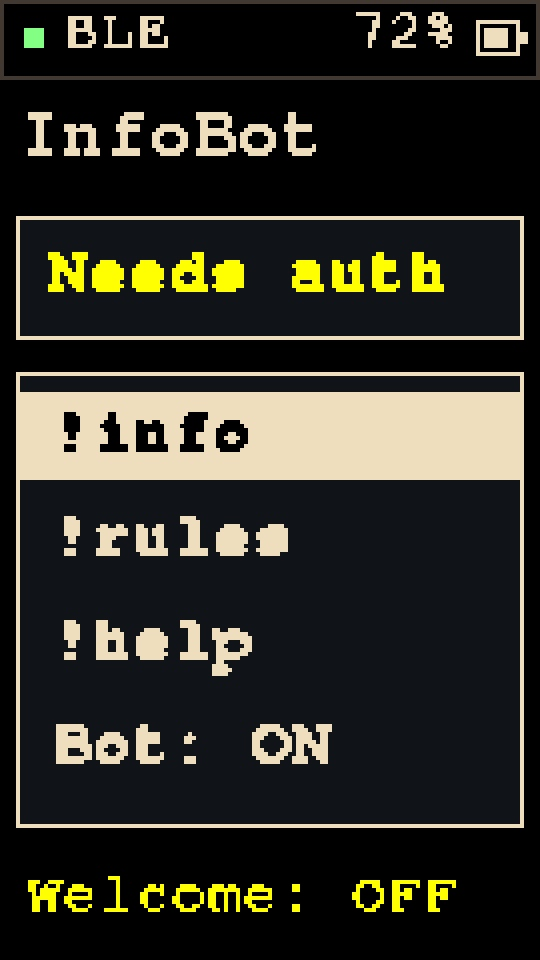
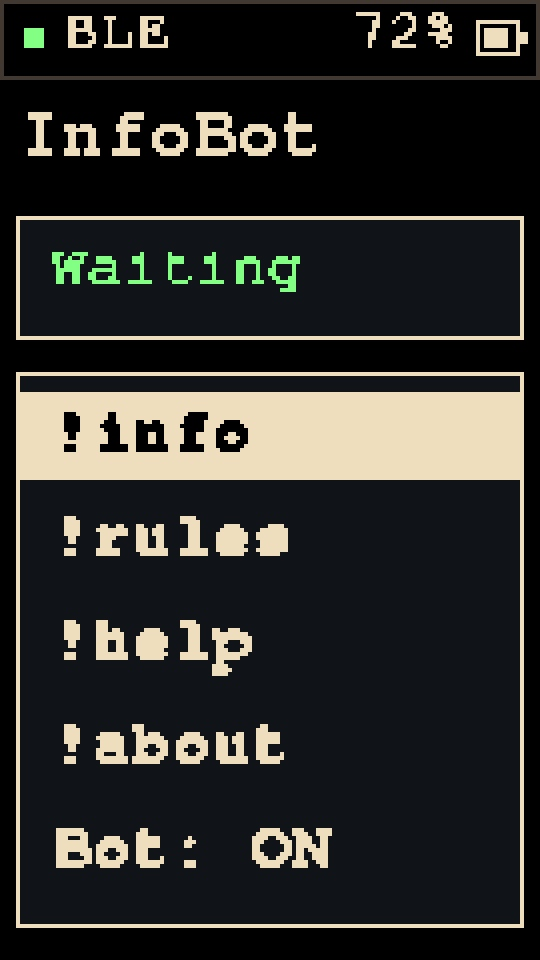
docs: explain InfoBot replies and refresh navigation previews
- Document public/private command conditions, about link and visible diagnostic states.
- Explain disabled automatic welcomes and the removed misleading footer.
- Update bluetooth naming, Home return and 32 scrolling replies across guides and previews.
- Record nineteen passing suites, verified upload and observed HAT/auth state.

diff --git a/docs/04-screens.md b/docs/04-screens.md
@@ -20,7 +20,7 @@ Target: **M5StickC Plus2, 135 × 240 pixels, portrait, en-US**. The editable [Fi
 | A short | Confirm/open, toggle local details, apply selected brightness |
 | B short | Up / previous observation |
 | C short (`M5.BtnPWR`) | Down / next observation |
-| B held ≥700ms | Back once; details → parent, Settings child → Settings, other pages → Home, Home → Settings |
+| B held ≥700ms | Back once; details → parent, Settings child → Settings, other pages → Home, Home → Start |
 | A held ≥700ms | Reserved; no confirmation on release |
 | C held ≥700ms | No down action on release; six-second hold retains power off |
 
@@ -48,11 +48,11 @@ Diagnostics shows `J:X,Y` when the HAT responds. It exposes the module's calibra
 | Start | Name, shared controls, A enters Home | Final logo remains a design asset task |
 | Home | Advertisement candidates, signed-peer/unread counts, envelope, real relay/transport state | Counts do not prove channel membership |
 | Nearby | Signed peers take priority when available; otherwise filtered candidates; A opens ID/address details | Signed-only and Noise-authenticated statuses are distinct; RSSI belongs only to observations |
-| Inbox | Separate Mesh (`#bluetooth`) and Direct DMs destinations with unread counts; A opens the selected history | No private groups or Nostr context |
+| Inbox | Separate #bluetooth and Direct DMs destinations with unread counts; A opens the selected history | No private groups or Nostr context |
 | Messages | Twelve-entry public/DM live history with BLE/DM labels; B/C cycle messages; A opens text-scroll mode; B/C scroll; A again replies; hold-B leaves detail, then returns to Inbox | RAM-only, 192 displayed bytes, truncation indicated; replies use a live authenticated session |
 | InfoBot | Command reference, authentication readiness, immediate Bot ON/OFF switch | Toggle is per boot; Welcome OFF |
 | Settings | Brightness, Battery, Diagnostics, Sound, JoyC HAT, About | Choices use compact rows |
-| Sound | Independent Interact, DM alert and Mesh msg square checkboxes | All default off |
+| Sound | Independent Interact, DM alert and Channel square checkboxes | All default off |
 | JoyC HAT | Click and LED pulse square checkboxes, connection/button state | Both default off |
 | Brightness | Five presets, explicit apply, persistent value, visible save failure | Physical 5% readability remains to be checked |
 | Battery | Real voltage and approximate percentage | No calibrated runtime or unsupported charging claim |
@@ -113,13 +113,13 @@ The [seventeen JPEG previews](screens/README.md) are generated from current draw
 
 ## Inbox and read state
 
-**Mesh** is a label for the apps' existing public local mesh (`#bluetooth`), not a new room created by the Stick. Multiple nearby participants share it. **Direct DMs** filters private messages addressed to the Stick. The shared header, including Start, shows an envelope whenever a retained incoming message is unread; Home and each inbox show counts. Viewing one message marks only that entry read. Incoming messages do not replace the message currently being read.
+**#bluetooth** is the apps' existing public local mesh, not a new room created by the Stick. Multiple nearby participants share it. **Direct DMs** filters private messages addressed to the Stick. The shared header, including Start, shows an envelope whenever a retained incoming message is unread; Home and each inbox show counts. Viewing one message marks only that entry read. Incoming messages do not replace the message currently being read.
 
 For DMs, a local read schedules the official encrypted Noise read receipt (`0x02` plus the original message ID). Unopened DMs produce only delivered receipts (`0x03`). Pending read receipts retry with bounded work when a suitable authenticated session is available. A queued receipt is not guaranteed radio delivery, and read state is not persisted across reboot.
 
 ## Sound and joystick preferences
 
-Settings → Sound uses square checkboxes for independent selections. Interact plays a short 30 ms beep on an interaction and two beeps on confirmation. DM alert and Mesh msg use different short tones for newly accepted incoming messages. Duplicate packets, announcements and outgoing replies do not trigger message alerts. Sound runs asynchronously while the UI and BLE loop continue.
+Settings → Sound uses square checkboxes for independent selections. Interact plays a short 30 ms beep on an interaction and two beeps on confirmation. DM alert and Channel use different short tones for newly accepted incoming messages. Duplicate packets, announcements and outgoing replies do not trigger message alerts. Sound runs asynchronously while the UI and BLE loop continue.
 
 Settings → JoyC HAT has Click and LED pulse. Click reads the active-low button only when enabled, debounces for 30 ms and requires a released button before the first confirmation. LED pulse produces a brief green fade after interaction. All five checkboxes default off and persist as one versioned NVS record, independently of brightness. Save failure is shown as Not saved.
 
@@ -129,10 +129,14 @@ The driver follows the local working Nemo reference's M5Unified transaction sequ
 
 ## Private composer — four additional screens
 
-Nearby A selects the currently displayed identified user. Inbox A opens the text reader; A again starts a private reply to that message's user. Reply offers Short msg/Keyboard; Short msgs provides eight ready-made English messages; Keyboard puts the draft above a compact QWERTY layout; Confirm shows the recipient and paged draft, then Send/Cancel. Cancel is initially selected.
+Nearby A selects the currently displayed identified user. Inbox A opens the text reader; A again starts a private reply to that message's user. Reply offers Short msg/Keyboard; Short msgs provides 32 ready-made English messages with a sliding five-row viewport and scrollbar; Keyboard puts the draft above a compact QWERTY layout; Confirm shows the recipient and paged draft, then Send/Cancel. Cancel is initially selected.
 
 B/C and JoyC up/down traverse the keyboard in reading order. A/right selects, left/hold-B backs out one step. ABC/123/abc switches case/numbers, SP inserts a space, DEL removes the last character, and OK opens confirmation. The confirmation text pages participate in the same focus cycle as Send and Cancel, allowing the full 192-character draft to be reviewed.
 
 The composer captures a peer ID, not a list position. Failed sends preserve the draft and show Not sent; successful enqueues show Queued and cannot be submitted twice. Delivered/Read require an authenticated receipt. See [behavior and acceptance checks](14-direct-message-composer.md).
 
 Owner acceptance on 2026-11-11: the installed sending flow worked well. This general confirmation does not individually close the platform, receipt-state or edge-case items in the composer checklist.
+
+## App navigation and InfoBot update — 2026-11-11
+
+The public inbox is named #bluetooth again, with Public chat as its subtitle. Home Back returns to Start. Sound labels the public-message alert Channel. InfoBot offers !info, !rules, !help, !about and Bot: ON/OFF; the top status shows command results or reasons to wait. The noninteractive Welcome: OFF footer is removed. See [InfoBot behavior](15-infobot.md) for public/private reply conditions.

diff --git a/README.md b/README.md
@@ -2,7 +2,7 @@
 
 Firmware **v0.2.0** · Default language: **English (en-US)**.
 
-A small BLE Bitchat participant for M5StickC Plus2. The firmware implements signed discovery and public chat, automatic identity-bound Noise sessions, bounded public-packet relay, and authenticated InfoBot commands. Other Bitchat users see the device as **Bitchat Stick** in the local `#bluetooth` context.
+A small BLE Bitchat participant for M5StickC Plus2. The firmware implements signed discovery and public chat, automatic identity-bound Noise sessions, bounded public-packet relay, and signed-public/private InfoBot commands. Other Bitchat users see the device as **Bitchat Stick** in the local `#bluetooth` context.
 
 Android 2.2.0 has verified the Stick's announcement and completed a real Noise handshake. The owner also confirmed network visibility, corrected JoyC navigation and successful use of the installed message-sending flow on 2026-11-11. The sending report did not specify a phone platform or individual receipt checks. Full iOS messaging, indirect two-phone relay, background behavior, and battery endurance still require the [device acceptance checklist](docs/13-device-checklist.md). Compilation and native tests alone do not establish interoperability.
 
@@ -30,14 +30,14 @@ Exit the monitor with `Ctrl+C` before uploading again. Deployment currently mean
 - **A:** confirm/open the selected item.
 - **B:** move up.
 - **C:** move down. C is the Plus2 power button, exposed as `M5.BtnPWR`.
-- **Hold B for 700 ms:** go back; from Home, open Settings.
+- **Hold B for 700 ms:** go back; from Home, return to Start.
 - **Hold C for 6 seconds:** retain the power-off behavior. A long C press never becomes a down action on release.
 
 The optional **M5Stack Mini JoyC HAT (U156)** also navigates the menus: left goes back, right confirms, and up/down move and repeat every 1.5 seconds when held past the activation threshold. Left/right require recentering before another action. The physical buttons remain available. Settings → JoyC HAT adds optional Click confirmation and LED pulse, both disabled by default. See the [JoyC controls](docs/04-screens.md#optional-mini-joyc-hat) and [device checks](docs/13-device-checklist.md#1a-mini-joyc-hat).
 
 The splash screen shows the project name and controls, aligned to the current Figma design. Press A to enter Home. Navigation instructions are shown only on the splash screen, freeing space on the other screens. The first press after the screen turns off only wakes it.
 
-Settings → Sound offers independent checkboxes for interaction beeps, received DMs and Mesh messages. Choices persist across restart.
+Settings → Sound offers independent checkboxes for interaction beeps, received DMs and #bluetooth messages. Choices persist across restart.
 
 Settings offers 5%, 25%, 50%, 75%, and 100% brightness, with 50% as the default. About credits **Wander Lima** and includes a real QR code for [the project repository](https://github.com/wanderlima/bitchat-stick). A radio mark shows the applied brightness; the cream highlight shows the focused option.
 
@@ -47,12 +47,12 @@ The interface uses FreeMono Regular/Bold, warm cream `#EBDCBA` instead of pure w
 
 - Home, Nearby, Inbox, Messages, InfoBot, Settings, Brightness, Battery, About, and Diagnostics use real firmware state.
 - Nearby distinguishes service-advertisement candidates, signed peers, and Noise-authenticated peers. A signed name is not an out-of-band verified human identity.
-- Inbox separates **Mesh** (the shared public BLE `#bluetooth` context) and **Direct DMs** (private messages addressed to this Stick). It does not create a new channel. Messages reads signed public text and authenticated DMs, with explicit BLE/DM labels. It keeps twelve RAM-only entries, with message paging and text scrolling; at most 192 bytes are rendered per entry, with an explicit truncation mark.
+- Inbox separates **#bluetooth** (the shared public BLE `#bluetooth` context) and **Direct DMs** (private messages addressed to this Stick). It does not create a new channel. Messages reads signed public text and authenticated DMs, with explicit BLE/DM labels. It keeps twelve RAM-only entries, with message paging and text scrolling; at most 192 bytes are rendered per entry, with an explicit truncation mark.
 - Signed public announcements and text are verified, deduplicated, and eligible for TTL-limited forwarding without echoing the ingress link. Queue acceptance is not a delivery acknowledgement.
-- InfoBot supports `!info`, `!rules`, and `!help`, plus `!regras`/`!ajuda` aliases. Commands require an authenticated peer and recent signed public text. Per-peer/global limits prevent reply floods. The on-device `Bot: ON/OFF` switch applies immediately for the current boot.
+- InfoBot supports `!info`, `!rules`, `!help`, and `!about`, plus `!regras`/`!ajuda` aliases. Signed public commands receive public replies; authenticated DMs receive private replies. A three-second peer limit and one-second global limit prevent reply floods. The InfoBot screen shows its latest reply/block status. See [usage and troubleshooting](docs/15-infobot.md). The on-device `Bot: ON/OFF` switch applies immediately for the current boot.
 - Welcome messages remain OFF because discovery/reconnection does not reliably prove channel entry.
 - An envelope in the header indicates unread incoming messages. Home and each inbox show unread counts; opening a DM sends an encrypted read receipt. New arrivals preserve the current reading position. Unread state is RAM-only.
-- Nearby users and Inbox messages open a private composer: Short msg presets or a QWERTY keyboard, then Send/Cancel. Drafts are bounded to 192 ASCII characters. Sending requires an authenticated live session; Queued, Delivered and Read are distinct states. See the [composer and device checklist](docs/14-direct-message-composer.md).
+- Nearby users and Inbox messages open a private composer: 32 scrolling Short msg presets or a QWERTY keyboard, then Send/Cancel. Drafts are bounded to 192 ASCII characters. Sending requires an authenticated live session; Queued, Delivered and Read are distinct states. See the [composer and device checklist](docs/14-direct-message-composer.md).
 - Drawing uses a 135 × 240 offscreen framebuffer before updating the display, avoiding the visible erase/redraw cycle.
 
 Private media, private groups, Nostr, gossip/history synchronization, arbitrary routed Noise forwarding, OTA, persistent chat history remain future scope. See the [wire contract and security limits](docs/12-wire-contract.md) and [current implementation plan](docs/11-implementation-plan.md).
@@ -76,6 +76,7 @@ The official project distinguishes the offline BLE `#bluetooth` context from geo
 - [Wire contract and interoperability evidence](docs/12-wire-contract.md)
 - [Device acceptance checklist](docs/13-device-checklist.md)
 - [Private composer and validation checklist](docs/14-direct-message-composer.md)
+- [InfoBot commands and troubleshooting](docs/15-infobot.md)
 
 ## Hardware and evidence
 

diff --git a/docs/13-device-checklist.md b/docs/13-device-checklist.md
@@ -20,7 +20,7 @@ Updated: **2026-11-11**. Device name: **Bitchat Stick**. Supported context: publ
 - [ ] Boot from USB, then battery only: one splash, no repeated resets.
 - [ ] Remain on Home/Nearby for at least one minute: no visible black erase/redraw flashes; text and header remain stable.
 - [ ] A confirms/selects, B moves up, C moves down; hold-B backs out; hold-C for six seconds powers off without an extra down action.
-- [ ] Open all eleven screens; verify grouping, dividers, cream text and the green Nearby border.
+- [ ] Open all seventeen screens; verify grouping, dividers, cream text and the green Nearby border.
 - [ ] Wait 30 seconds: display turns off. First press only wakes it; selected screen/brightness remain intact.
 
 ## 1a. Mini JoyC HAT
@@ -36,7 +36,7 @@ Updated: **2026-11-11**. Device name: **Bitchat Stick**. Supported context: publ
 
 - [ ] Start with all Sound and JoyC checkboxes off. Confirm normal navigation with the HAT attached, then disconnected.
 - [ ] Sound → Interact plays one short beep on movement/back and two on confirmation.
-- [ ] Test DM alert and Mesh msg independently with fresh incoming messages. Duplicate transmissions and own replies stay quiet.
+- [ ] Test DM alert and Channel independently with fresh incoming messages. Duplicate transmissions and own replies stay quiet.
 - [ ] Confirm Click is off by default. A stuck button must not prevent axis or physical-button navigation while Click is off.
 - [ ] Enable Click, release it, then press again to confirm once. Holding it must not repeat. Test a press held while enabling.
 - [ ] Enable LED pulse and interact. Check a short green pulse and return to off. Disable it and verify pulses stop.
@@ -61,13 +61,13 @@ Updated: **2026-11-11**. Device name: **Bitchat Stick**. Supported context: publ
 
 Use your own test phones and synthetic content. Public BLE messages are visible to nearby participants.
 
-- [ ] In Inbox, verify **Mesh** and **Direct DMs** are separate. Mesh is the shared local public conversation, not a room created by the Stick.
-- [ ] From Android, send a unique public message such as `android-stick-001` in #bluetooth; it appears in Inbox → Mesh on the Stick.
+- [ ] In Inbox, verify **#bluetooth** and **Direct DMs** are separate. The public inbox is the shared local conversation, not a room created by the Stick.
+- [ ] From Android, send a unique public message such as `android-stick-001` in #bluetooth; it appears in Inbox → #bluetooth on the Stick.
 - [ ] Repeat from iPhone with `ios-stick-001`. Verify sender name and actual content.
 - [ ] B/C changes message; A enters text scrolling; B/C scrolls long text; hold-B leaves detail, then Messages.
 - [ ] Send long text, accents and emoji: no crash, unsupported display glyphs are substituted, and truncation is indicated when applicable.
-- [ ] With a **Noise auth** peer and Bot ON, send `!info`; receive one signed public reply from Bitchat Stick.
-- [ ] Wait at least 30 seconds between commands from the same peer; check `!rules`, `!help`, and aliases `!regras`, `!ajuda`.
+- [ ] With a signed public peer and Bot ON, send `!info`; receive one signed public reply from Bitchat Stick.
+- [ ] Wait at least three seconds between commands from the same peer; check `!rules`, `!help`, `!about`, and aliases `!regras`, `!ajuda`.
 - [ ] Send ordinary text, `!info extra`, and repeated commands: no unintended replies or reply flood.
 - [ ] In InfoBot select Bot ON/OFF with A. OFF suppresses replies immediately; ON restores them after cooldown. The switch returns to ON after reboot.
 - [ ] Reconnect/reopen apps: no welcome spam and no replay-triggered replies. Welcome remains OFF.
@@ -78,8 +78,8 @@ Use your own test phones and synthetic content. Public BLE messages are visible 
 - [ ] Open Inbox → Direct DMs: the message appears with a **DM** label and correct sender/content.
 - [ ] Before opening the DM on the Stick, Android should show delivered only. Opening it sends the encrypted read receipt; verify Android changes to read within a few seconds while connected.
 - [ ] Repeat from iPhone; test long text and reconnect. Earlier DMs sent before the update are not automatically recovered.
-- [ ] Send `!info` as a DM: it is displayed privately and never produces a public InfoBot reply.
-- [ ] A new incoming message shows the envelope on every screen, including Start, and increments unread counts. Reading one entry clears only that entry; opening Mesh must not clear unread DMs.
+- [ ] Send `!info` as a DM: it is displayed privately and receives a private InfoBot reply, never a public reply.
+- [ ] A new incoming message shows the envelope on every screen, including Start, and increments unread counts. Reading one entry clears only that entry; opening #bluetooth must not clear unread DMs.
 - [ ] While reading an older message, a new arrival preserves focus and remains unread.
 - [ ] Repeat the delivered → read transition on iPhone; test reconnect before opening the DM.
 
@@ -101,3 +101,5 @@ Use your own test phones and synthetic content. Public BLE messages are visible 
 ## Limits that are not failures of this version
 
 Private media/groups, geographic/Nostr channels, sync/history recovery and OTA are not implemented. Private-message sending with a QWERTY/canned-reply composer is implemented; validate it using [the composer checklist](14-direct-message-composer.md). History and peer pins are in RAM; local identity and brightness persist in unencrypted NVS. Outgoing public sending is currently exercised through InfoBot and public relay; private sending supports confirmed text DMs and protocol delivery/read receipts. Queue/notification acceptance is not end-to-end delivery confirmation; the sender app must actually receive the encrypted delivered/read receipt. Welcome automation intentionally stays disabled.
+
+See [InfoBot usage](15-infobot.md) for the changed public/private command gates, statuses and automatic-welcome explanation. Test Home → Back → Start and scroll through all 32 Short msgs, including Help/SOS, before confirming a send.

diff --git a/docs/03-features.md b/docs/03-features.md
@@ -20,21 +20,11 @@ Do not promise discovery of every channel or a complete participant list. Show o
 
 ## InfoBot — planned
 
-Enable only by local action after compatible reception and transmission have been demonstrated for the selected context. Use a clearly identified bot identity, such as `StickInfoBot`; do not impersonate a phone user.
+The device replies under its advertised Bitchat Stick identity. Bot defaults to ON for each boot and can be disabled locally. The installed bot behavior is described below; physical acceptance of newly added paths is recorded separately.
 
-| Command token | Proposed configurable response |
-|---|---|
-| `!info` | “About this context: [description]. Use !rules or !help.” |
-| `!rules` | “Respect others. Avoid spam. Do not share other people's personal data.” |
-| `!help` | “Commands: !info, !rules, !help. Automated replies from StickInfoBot.” |
+InfoBot implements `!info`, `!rules`, `!help`, `!about`, and aliases `!regras`/`!ajuda`. It accepts a complete command with surrounding whitespace and ASCII case differences. Public replies require a verified signed public packet; private commands require an authenticated Noise session and receive encrypted private replies. Arguments, URLs and shell text are never executed.
 
-English command tokens and reply templates are the new default. The originally requested `!regras` and `!ajuda` may be retained as optional compatibility aliases for `!rules` and `!help` when the bot is implemented. None of these are official Bitchat protocol commands.
-
-Accept only an exact complete command; the current implementation does not trim whitespace. Do not execute arguments, URLs, or shell text. Ignore synchronized history, duplicate relays, own messages, recognized automated replies, private messages, and unapproved contexts. Reply only in the validated input context. Keep counters rather than message content by default.
-
-Starting spam policy: one reply per sender/context per 30 seconds, no more than six replies globally per minute, one short message per response, and a proposed 160-byte UTF-8 ceiling without splitting code points. Validate that ceiling against the actual codec. Drop/count automated replies when queues fill; do not accumulate an unlimited backlog across reconnections. Prefer verified identities for limits. Without them, leave the bot disabled or require an explicit conservative global policy.
-
-Configuration will be local in a future phase. No command grants privileges or changes the rules. Informational rules are not network moderation.
+The peer cooldown is three seconds and the global interval is one second. Commands must be within two minutes of the local clock. Duplicate/history/self traffic must not cause repeated replies. Failed enqueue shows Queue busy and does not create an unbounded retry backlog. The on-device switch is ON by default after boot. See [InfoBot usage and troubleshooting](15-infobot.md).
 
 ## Conditional welcome messages
 
@@ -44,10 +34,10 @@ Require an authenticatable event carrying identity and context. Discovery, annou
 
 The preferred fallback is a user-requested `!info` response, not unsolicited messages to every nearby radio.
 
-## Future Pocket Messenger
+## Initial Pocket Messenger — implemented
 
-Paged reading, canned replies such as “Received” or “On my way,” context/recipient selection, and explicit confirmation before transmission. Keep the same controls: B up, C down, A select/confirm, hold B to return/cancel. Opening a message must not send anything. Free-text composition and DMs follow only after input usability, identity, sessions, and destination confirmation are validated.
+Nearby/Inbox entry, 32 short replies, a compact QWERTY editor, and explicit recipient/text confirmation are implemented. B/C navigate, A selects, and hold B returns/cancels; JoyC uses the same actions. Opening a message or choosing a phrase never transmits it. See [the composer](14-direct-message-composer.md).
 
 ## Current InfoBot control
 
-InfoBot accepts recent signed public `!info`, `!rules`, `!help`, `!regras`, and `!ajuda` only after Noise-authenticated peer state binds the signing key. Commands with arguments are ignored. Rate limits are 30 seconds per peer and 3 seconds globally; duplicates and self traffic do not cause replies. The InfoBot screen includes an immediate ON/OFF switch for the current boot. Welcomes remain disabled.
+The screen lists four commands and Bot: ON/OFF. Command rows explain usage; they do not transmit a request. The top status distinguishes Waiting, queued Public/DM replies, cooldown, disabled state, clock mismatch and queue failure. The former Welcome: OFF footer was not editable and has been removed; automatic welcomes remain disabled.

diff --git a/docs/15-infobot.md b/docs/15-infobot.md
@@ -1,0 +1,43 @@
+# InfoBot usage and troubleshooting
+
+InfoBot responds to commands received by **Bitchat Stick**, either in the shared public **#bluetooth** chat or in a direct message to the Stick. On the device, open Home → InfoBot and keep **Bot: ON**. Select Bot: ON/OFF with A or JoyC right to toggle it. The switch defaults to ON after restart.
+
+The command rows on that screen explain each command; selecting them does not send a command to another user. Type the command in a phone's Bitchat chat to request a reply.
+
+| Command | Reply |
+|---|---|
+| `!info` | Stick hardware and supported local features |
+| `!rules` / `!regras` | Public/private context and basic conduct |
+| `!help` / `!ajuda` | Commands and usage |
+| `!about` | Project description, Wander Lima credit and https://github.com/wanderlima/bitchat-stick |
+
+Commands accept ASCII case differences and surrounding whitespace, but must be the whole message. `!HELP` works; `please !help` is ordinary chat.
+
+## Reply conditions
+
+- A public command must be a valid signed packet from an identified Bitchat peer. A private Noise session is not required for public replies.
+- A DM must be decrypted through an authenticated, identity-bound Noise session. Its bot reply stays encrypted and addressed to the same peer. A private command never generates a public reply.
+- The command timestamp must be within two minutes of the Stick's clock, in addition to normal packet validation. Old history is not treated as a live request.
+- Allow three seconds between commands from the same peer. A shared one-second interval also limits replies across peers. Public and private commands share the peer limit.
+- Duplicate packets do not trigger another bot reply. Queue acceptance is not proof that the phone received it.
+
+The status at the top of InfoBot shows **Waiting**, **Public reply**, **DM reply**, **Wait 3s**, **Bot OFF**, **Check clock**, or **Queue busy**. Public reply/DM reply means a reply was queued. If the original packet is rejected before command processing, check that ordinary chat arrives and that the peer/connection is present; a command status is not available for an unreadable packet. USB telemetry includes `botState` without logging message text.
+
+## Why commands did not reply before this change
+
+The earlier implementation intentionally ignored DM commands and required private authenticated peer state even for signed public commands. It also imposed a 30-second peer cooldown and a narrower timestamp window. Native regression reproduced the signed-public/no-session failure before the correction. The current implementation accepts signed public commands without that extra session requirement, supports private replies, and exposes the remaining command conditions on screen.
+
+## Automatic welcomes
+
+The former **Welcome: OFF** footer described a disabled automatic greeting feature; it was not an editable setting. BLE discovery/reconnection does not reliably prove that someone joined the chat. Automatic welcomes therefore remain disabled, and the misleading footer has been removed. Bot: ON controls command replies only.
+
+## Device checks
+
+- [ ] Connect Bitchat, verify ordinary incoming messages, and keep Bot: ON.
+- [ ] In #bluetooth, send `!help`; allow three seconds, then send `!about`. Check the public reply and project link.
+- [ ] DM the Stick with `!info`, then `!about` after three seconds. Verify replies appear only in that DM.
+- [ ] Send repeated commands quickly: Wait 3s appears and no flood of replies occurs.
+- [ ] Switch Bot OFF: commands receive no reply. Switch ON and retry after the interval.
+- [ ] Check clock/Queue busy statuses if the message arrived but no reply could be queued.
+
+The private composer was previously confirmed working by the owner. These new InfoBot paths require separate device acceptance after this firmware update.

diff --git a/CHANGELOG.md b/CHANGELOG.md
@@ -7,7 +7,7 @@ User-visible changes and validation evidence are recorded here in English (en-US
 ### Added
 
 - Private message composition from identified Nearby users and Inbox messages, using a shared four-screen flow: Reply, Short msgs, Keyboard and Confirm.
-- Eight ready-made English replies and a compact QWERTY editor with lower/uppercase letters, numbers, punctuation, space and delete. Drafts are limited to 192 ASCII characters and kept in RAM.
+- Thirty-two scrolling ready-made English replies and a compact QWERTY editor with lower/uppercase letters, numbers, punctuation, space and delete. Drafts are limited to 192 ASCII characters and kept in RAM.
 - Authenticated Noise DM sending with random message IDs, explicit recipient confirmation, Send/Cancel, draft retention after send failure and protection against repeat submission after queue acceptance.
 - Distinct Queued, Delivered and Read states, with incoming receipts matched to both message ID and peer ID.
 - Mini JoyC HAT navigation: left returns, right confirms, up/down navigate beyond ±80; horizontal gestures require recentering to ±10 and vertical actions repeat every 1.5 seconds.
@@ -16,11 +16,15 @@ User-visible changes and validation evidence are recorded here in English (en-US
 
 ### Changed
 
-- Inbox distinguishes Mesh (the shared public BLE context) from Direct DMs, with unread counts and a global header envelope.
+- Public inbox is named #bluetooth again and distinguishes public chat from Direct DMs, with unread counts and a global header envelope.
 - Settings places About last and retains five brightness presets: 5%, 25%, 50%, 75% and 100%.
 - M5GFX and M5Unified are pinned to 0.2.36 and 0.2.8 respectively, aligned with the supplied working HAT reference. RTC writes are verified through readback for that API.
 
 ### Fixed
+
+- InfoBot now answers signed public commands without requiring a private Noise session and answers authenticated DM commands privately. Added !about with the project link, case/whitespace handling, three-second peer cooldown and visible reply/block status.
+- Removed the misleading noninteractive Welcome: OFF footer; automatic greetings remain disabled.
+- Back from Home returns to Start. Added movement/direction/help/SOS presets with a sliding list and scrollbar.
 
 - HAT register reads request one byte per axis and use STOP-separated M5Unified external-I2C transactions, with Mini/classic discovery and recovery. Optional click reads stay disabled unless explicitly enabled.
 - Corrected both joystick directions for the physical Plus2 orientation. The owner confirmed HAT readiness after a full power cycle/remount and then confirmed correct navigation.
@@ -28,7 +32,7 @@ User-visible changes and validation evidence are recorded here in English (en-US
 
 ### Validation — 2026-11-11
 
-- Eighteen native suites and independent CryptoKit signature verification passed for the composer firmware. The Plus2 build and USB upload completed with flash hash verification.
+- The composer revision passed eighteen native suites; the subsequent InfoBot/navigation revision passed nineteen suites, including the reproduced public-command regression. Independent CryptoKit signature verification passed. The Plus2 build and USB upload completed with flash hash verification.
 - The owner reported that the installed message-sending flow worked well. The report did not identify a phone platform, entry path, input method or delivered/read state; these are not inferred as separate passes.
 - Earlier owner reports confirmed Android discovery, incoming DM display and HAT navigation. See [recorded tests](docs/06-testing.md) and the [device checklist](docs/13-device-checklist.md).
 

diff --git a/docs/09-getting-started.md b/docs/09-getting-started.md
@@ -14,8 +14,8 @@ Firmware **v0.2.0**, English (en-US). Source implementation and physical accepta
 - Signature-checked public relay with TTL reduction, deduplication and ingress exclusion; paced MTU-aware notifications with bounded queues.
 - Authenticated, recent public InfoBot commands and rate limits; immediate on-device Bot ON/OFF switch. This switch resets to ON at reboot; brightness and local identity persist.
 - Real repository QR, Wander Lima credits, BLE/heap/uptime counters and UTC RTC status. Serial telemetry contains counters, not message bodies or private keys.
-- Separate Mesh/Direct DMs inboxes, header unread envelope and per-message read state. Opening a DM schedules its encrypted read receipt; unopened messages remain unread.
-- Private composer from Nearby/Inbox: eight short messages, QWERTY with case/numbers, 192-character drafts, explicit Send/Cancel, authenticated sending and delivery/read correlation.
+- Separate #bluetooth/Direct DMs inboxes, header unread envelope and per-message read state. Opening a DM schedules its encrypted read receipt; unopened messages remain unread.
+- Private composer from Nearby/Inbox: 32 scrolling short messages, QWERTY with case/numbers, 192-character drafts, explicit Send/Cancel, authenticated sending and delivery/read correlation.
 - Persistent independent Sound/JoyC checkboxes, optional center click and LED pulse; About is last in Settings.
 
 ## Confirmed hardware evidence
@@ -109,7 +109,7 @@ The table test covers updates, address-type distinction, bounds/oldest replaceme
 | A short | Confirm/open; show/close detail; change selected brightness |
 | B short | Up / previous observation |
 | C short (`M5.BtnPWR`) | Down / next observation |
-| B held ≥700 ms | Back once; Messages→Channels; Settings sub-screens→Settings; details→list; other pages→Home; Home→Settings |
+| B held ≥700 ms | Back once; Messages→Inbox; Settings sub-screens→Settings; details→list; other pages→Home; Home→Start |
 | A held ≥700 ms | Reserved; no confirmation on release |
 | C held ≥700 ms | No down action; 6-second hold retains power off |
 
@@ -136,7 +136,7 @@ Only the loop mutates PeerTable. BLE callbacks enqueue fixed-size observations w
 
 ## Evidence and hardware checklist
 
-The v0.2 target built and uploaded successfully. Native tests now cover eighteen suites plus an independent CryptoKit signature check. The hardware-reproduced GATT startup assertion was corrected, Android verified the announcement and Noise session, and the owner confirmed network visibility. Buffered drawing replaces normal direct erase/redraw; visual acceptance remains a device check.
+The v0.2 target built and uploaded successfully. Native tests now cover nineteen suites plus an independent CryptoKit signature check. The hardware-reproduced GATT startup assertion was corrected, Android verified the announcement and Noise session, and the owner confirmed network visibility. Buffered drawing replaces normal direct erase/redraw; visual acceptance remains a device check.
 
 The owner initially tested a DM while the reader supported only public BLE text. Authenticated private-text decoding, encrypted delivery receipts and DM labels were subsequently added. DMs remain separate from public InfoBot processing; DM commands never generate public replies. Direct-message composition and sending were subsequently added; see [the composer flow](14-direct-message-composer.md). The owner confirmed Android delivery status and reading the DM on the Stick; encrypted read acknowledgements were added afterward and still require final app-side acceptance.
 

diff --git a/docs/11-implementation-plan.md b/docs/11-implementation-plan.md
@@ -15,9 +15,9 @@ Updated: **2026-11-11**. English (en-US) firmware v0.2.0. Source implementation 
 | 7 | Home | Candidate/peer/unread totals, relay state, live header | State transitions, no erase/redraw flicker |
 | 8 | Nearby | Filtered candidates, signed peers, Noise authentication, stable candidate selection, IDs/details | Android/iOS foreground/background/reconnect behavior |
 | 9 | Messages | Signed public and authenticated private input, bounded history, paging and text scrolling | Real text, Unicode substitution, truncation, reconnect |
-| 10 | Inbox | Mesh/public #bluetooth and Direct DMs, unread counts and reply entry | Offline context and controlled indirect forwarding |
+| 10 | Inbox | Public #bluetooth and Direct DMs, unread counts and reply entry | Offline context and controlled indirect forwarding |
 | 11 | InfoBot | Authenticated fresh commands, reply limits, ON/OFF control, welcomes OFF | Cross-platform replies, cooldown, no reply loops |
-| 12 | Sound | Persistent independent interaction/DM/Mesh checkboxes | Buzzer audibility and incoming alert behavior |
+| 12 | Sound | Persistent independent interaction/DM/channel checkboxes | Buzzer audibility and incoming alert behavior |
 | 13 | JoyC HAT | Corrected axes, optional click/LED, release-to-arm and repeat rules | Click/LED edge cases; directions confirmed by owner |
 | 14 | Reply | Captured recipient ID, Short msg/Keyboard choice | Entry paths individually recorded |
 | 15 | Short msgs | Eight English presets and confirmation | Presets individually recorded |
@@ -38,7 +38,7 @@ Updated: **2026-11-11**. English (en-US) firmware v0.2.0. Source implementation 
 10. Automatically initiate Noise after discovery; verify Android announcement and handshake on hardware.
 11. Connect all current screens to real state, add the bot switch, buffer display updates, and document acceptance limits.
 12. Decode received DMs and send encrypted delivered receipts without exposing private text to InfoBot.
-13. Separate Mesh/Direct DMs inboxes; add unread envelope/counts and stable per-message read state.
+13. Separate #bluetooth/Direct DMs inboxes; add unread envelope/counts and stable per-message read state.
 14. Send encrypted read receipts when a DM is displayed, with bounded retries and explicit mobile acceptance checks.
 
 Each implementation group is committed separately; no push is part of this work. Native success and upload verification do not turn the remaining physical checks into passes.

diff --git a/docs/14-direct-message-composer.md b/docs/14-direct-message-composer.md
@@ -7,7 +7,7 @@ Selecting an identified user in Nearby or replying to a message in Inbox opens t
 Four screens use the existing cream/green FreeMono style and 135×240 portrait display:
 
 1. **Reply**: recipient, Short msg, Keyboard. Back returns to the exact source screen.
-2. **Short msgs**: scrollable English presets, with full selected text preview. Selecting one opens confirmation.
+2. **Short msgs**: 32 English presets with a sliding five-row viewport and scrollbar. Selecting one opens confirmation.
 3. **Keyboard**: draft above a small three-row QWERTY grid. A/right selects; B/C or up/down traverse keys in reading order. A fourth row offers case/numbers, space, delete and Done. Back returns to the method picker and preserves the draft. Limit: 192 ASCII characters; empty/space-only messages cannot proceed.
 4. **Confirm**: recipient, scrollable full message, Send/Cancel. Cancel is initially selected. Back returns to editing without sending. Cancel discards and returns to the source. Send requires a current authenticated Noise session and successful transport enqueue. Failure keeps the draft for retry. Queued means transport accepted, not delivered. The same screen displays authenticated delivery/read receipts if received.
 
@@ -40,7 +40,7 @@ On 2026-11-11, the owner reported that the installed message-sending flow worked
 
 - [x] Owner confirmed that the installed message-sending flow worked well.
 
-- [ ] Nearby → user → Short msg → Cancel sends nothing.
+- [ ] Nearby → user → Short msg → scroll through movement/help presets → Cancel sends nothing.
 - [ ] Nearby → user → Short msg → Send arrives in the intended Android DM.
 - [ ] Inbox → open DM → Reply → Keyboard → type, switch case/numbers, space/delete → Done → Send arrives on iOS.
 - [ ] New inbound messages while composing do not change recipient/draft.
@@ -48,3 +48,5 @@ On 2026-11-11, the owner reported that the installed message-sending flow worked
 - [ ] Queued changes only after an authenticated delivery/read receipt; duplicate confirmation does not send twice.
 - [ ] Verify every key and the 192-character limit using buttons and JoyC.
 - [x] Owner confirmed HAT detection and all four directions before this feature.
+
+The 32 presets include Come here, Follow me, On my way, Turn right, Turn left, Help, SOS and Emergency. These send normal private text after the same confirmation step; selecting a preset alone sends nothing.

diff --git a/docs/12-wire-contract.md b/docs/12-wire-contract.md
@@ -103,7 +103,7 @@ Raw DEFLATE expansion uses the existing pinned M5GFX miniz implementation, with 
 
 `Mesh` owns twelve signed peer records, two initiator/responder Noise sessions, twelve 192-byte display messages, a 64-entry deduplication cache, and bounded fragment storage. Announcements bind the sender ID to SHA-256 of the advertised Noise key and verify the advertised Ed25519 key. This is self-consistency, not out-of-band verification. Keys are pinned in RAM until peer expiry; peer trust is not persisted.
 
-Only a successful identity-bound Noise handshake followed by authenticated peer state (`0x21`, version 1) authorizes InfoBot commands. Public commands must also be fresh within 30 seconds, with at most five seconds of future skew. Replies have a 30-second per-peer and 3-second global cooldown. `!info`, `!rules`, `!help`, `!regras`, and `!ajuda` are supported. No advertisement or reconnect produces a welcome message.
+InfoBot public commands require a verified signed message from an identified peer, without an extra private-session gate. DM commands require a successful identity-bound Noise handshake and authenticated peer state (`0x21`, version 1); replies stay private. Command timestamps must be within two minutes of the local clock. Replies have a three-second per-peer and one-second global cooldown. `!info`, `!rules`, `!help`, `!about`, `!regras`, and `!ajuda` are supported. Duplicate private commands receive delivery acknowledgements without another bot reply. No advertisement or reconnect produces a welcome message. See [usage](15-infobot.md).
 
 The public BLE channel accepts UTF-8 signed text, rejects malformed/control input, and substitutes unsupported display glyphs. Display history is RAM-only and long messages are explicitly truncated. Signed announcements/public text are relayed with reduced TTL after verification and deduplication. Private media, private groups, gossip synchronization, Nostr, and opaque multi-hop Noise forwarding are outside this implementation. Noise initiates automatically after signed discovery and also handles incoming direct-link handshakes; it is not an arbitrary routed session manager. Crossed initiations keep the smaller peer ID as initiator. Reconnect/timeout clears authenticated state; sessions expire after one hour.
 

diff --git a/docs/06-testing.md b/docs/06-testing.md
@@ -133,3 +133,11 @@ The updated firmware upload completed with flash hash verification (981,952 byte
 On 2026-11-11, the owner reported that the installed message-sending flow worked well on the device. This confirms the tested flow at owner-observed level; the report did not identify which phone/OS, entry path, input method or receipt state was exercised. Platform-specific and edge-case checks below remain open until individually recorded.
 
 The owner also explicitly confirmed successful JoyC navigation after both axis directions were corrected. Existing eighteen-suite/CryptoKit results and the verified upload remain the latest software checks; this documentation update does not represent another test or flash run.
+
+## InfoBot and navigation correction — 2026-11-11
+
+A new native regression reproduced the original signed-public/no-private-session command being ignored. Public commands now rely on the existing signature verification instead of an additional private-auth gate. Private commands receive only encrypted private replies after the delivery acknowledgement; replaying the same message ID never emits another bot reply. Tests cover !about/project link, aliases, case/whitespace, cooldown, disabled state, stale clocks, invalid signatures and enqueue failure.
+
+UI tests cover Home Back to Start, #bluetooth naming, all four command details plus the bot switch, absence of the former welcome footer, and every one of the 32 presets without text clipping. The selected row remains visible through a sliding five-item viewport and wraps at both ends. Physical acceptance of these new bot paths remains pending; earlier owner confirmation of ordinary outgoing DMs does not establish it.
+
+This revision passed nineteen native suites plus independent CryptoKit verification. The Plus2 build/upload passed with flash hash verification (983,056 bytes). A post-upload USB sample reported `links=2 peers=2 auth=2 bot=0 botState=Waiting rejected=1 drops=7 heap=142188 clock=RTC joyc=present`. It confirms active transport/authentication/HAT detection, not an on-phone bot response; no new command had been observed by the bot in that sample.
